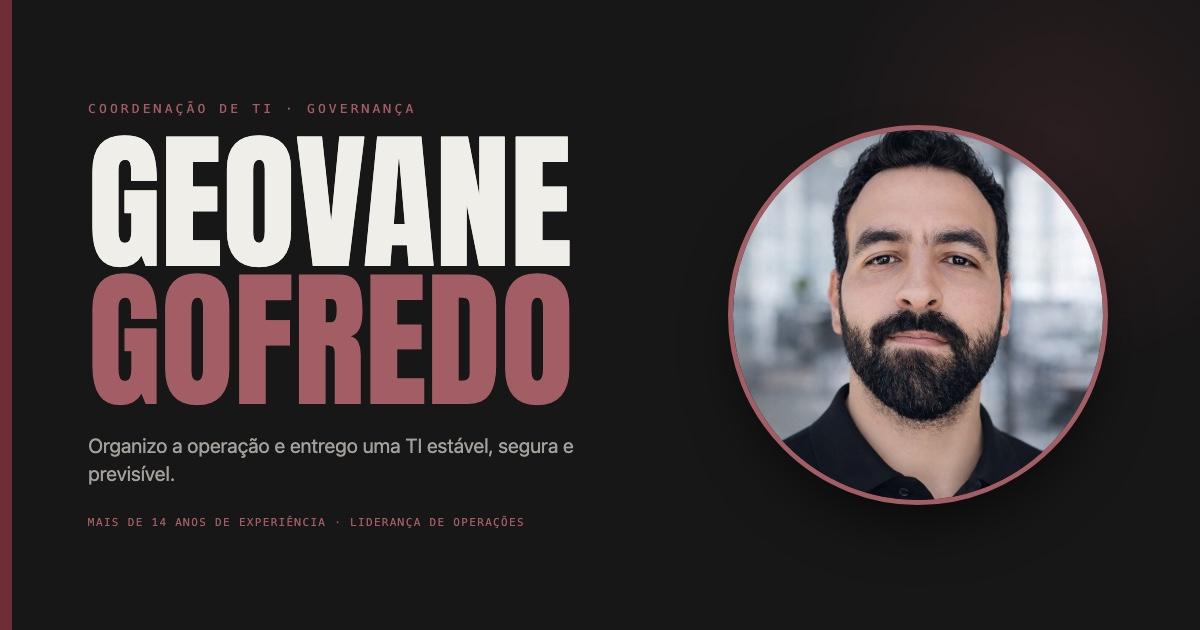
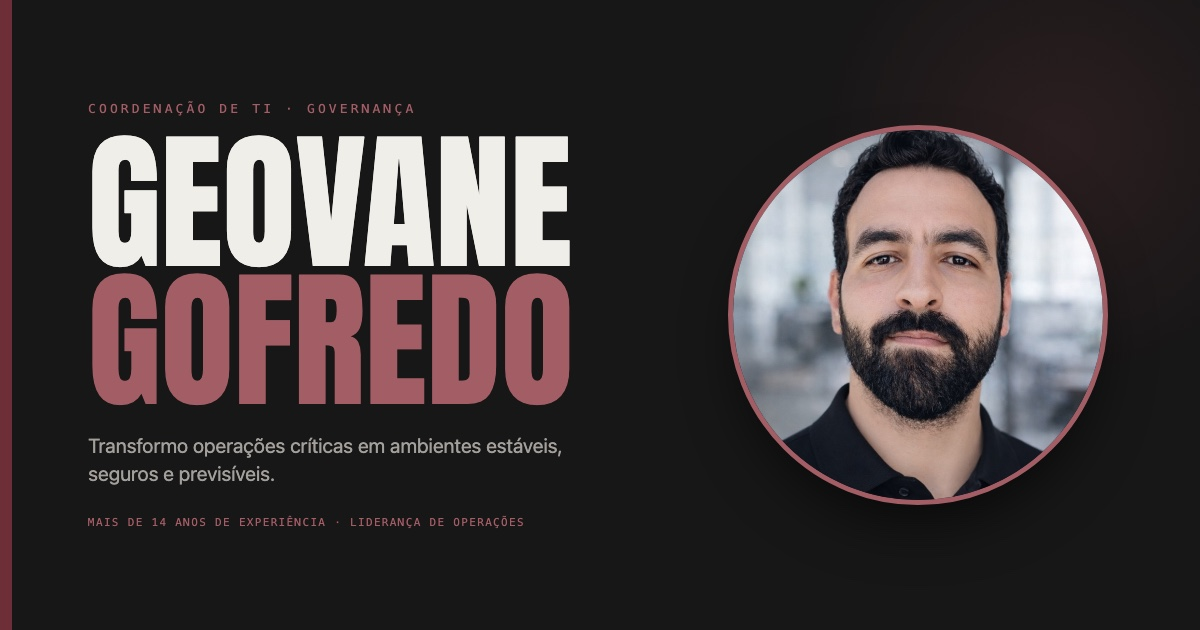
Coloca nome em uma linha e atualiza frase do hero

Changed region(s): [[0.0617, 0.6937, 0.4933, 0.7841]]

diff --git a/src/components/sections/HeroSection.tsx b/src/components/sections/HeroSection.tsx
@@ -38,14 +38,12 @@ export default function HeroSection() {
           transition={{ duration: 0.55, delay: 0.08 }}
           className="min-w-0"
         >
-          <h1 className="font-display uppercase tracking-tight leading-[0.9] text-foreground text-[clamp(3rem,8vw,5rem)]">
-            Geovane
-            <br />
-            <span className="font-display text-accent-bright">Gofredo</span>
+          <h1 className="font-display uppercase tracking-tight leading-[0.9] text-foreground text-[clamp(2.4rem,6vw,4.4rem)] whitespace-nowrap">
+            Geovane <span className="font-display text-accent-bright">Gofredo</span>
           </h1>
 
           <p className="mt-6 max-w-2xl text-[20px] md:text-[24px] leading-[1.4] text-foreground">
-            Organizo a operação e entrego uma TI estável, segura e previsível.
+            Transformo operações críticas em ambientes estáveis, seguros e previsíveis.
           </p>
 
           <p className="mt-3 max-w-xl text-[15px] md:text-[16px] leading-[1.7] text-muted">

diff --git a/index.html b/index.html
@@ -4,7 +4,7 @@
     <meta charset="UTF-8" />
     <meta name="viewport" content="width=device-width, initial-scale=1.0" />
     <title>Portfólio | Geovane Gofredo</title>
-    <meta name="description" content="Portfólio de Geovane Gofredo, líder de TI com mais de 14 anos em coordenação, governança e operações de TI. Organizo a operação e entrego uma TI estável, segura e previsível com SLAs, ITSM/SDM e liderança de equipes N1/N2/N3." />
+    <meta name="description" content="Portfólio de Geovane Gofredo, líder de TI com mais de 14 anos em coordenação, governança e operações de TI. Transformo operações críticas em ambientes estáveis, seguros e previsíveis, com SLAs, ITSM/SDM e liderança de equipes N1/N2/N3." />
     <meta name="author" content="Geovane Gofredo" />
     <meta name="keywords" content="Coordenação de TI, Governança de TI, Service Delivery, ITSM, SDM, ITIL, COBIT, Infraestrutura de TI, Operações de TI, Redes, Windows Server, Linux, Azure, Microsoft 365, Docker, Proxmox" />
 
